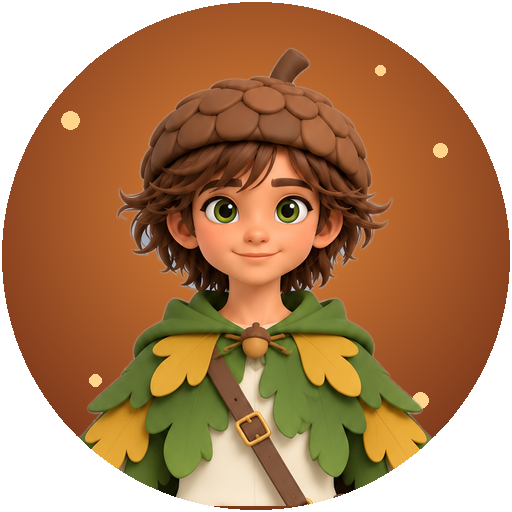
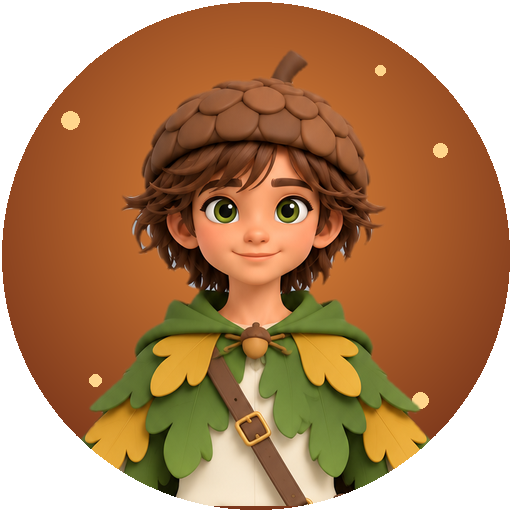
The 9 Thanksgiving Game Pass ids in Config.SKINS (checked on Roblox's API: names match, 99 Robux, for sale) and PASSES.md; pass pictures without the gray left in curly hair (Feast DJ / Cozy Cocoa Echo) and a trimmed outline. Places rebuilt

diff --git a/tools/make_pass_pictures.py b/tools/make_pass_pictures.py
@@ -35,7 +35,27 @@ def cut_background(img):
             continue
         seen[y, x] = True
         q.extend([(y + 1, x), (y - 1, x), (y, x + 1), (y, x - 1)])
-    alpha = Image.fromarray(np.where(seen, 0, 255).astype(np.uint8)).filter(ImageFilter.GaussianBlur(1.2))
+    # 2 Nov (Brent): gray left in the gaps of curly hair (Feast DJ and Cozy
+    # Cocoa Echo) - background pockets the fill can't reach. Any patch of
+    # background gray bigger than a few pixels goes too
+    pocket = near & ~seen
+    left = np.zeros((h, w), bool)
+    for sy, sx in zip(*np.nonzero(pocket)):
+        if left[sy, sx]:
+            continue
+        comp, q = [], deque([(sy, sx)])
+        left[sy, sx] = True
+        while q:
+            y, x = q.popleft()
+            comp.append((y, x))
+            for ny, nx in ((y + 1, x), (y - 1, x), (y, x + 1), (y, x - 1)):
+                if 0 <= ny < h and 0 <= nx < w and pocket[ny, nx] and not left[ny, nx]:
+                    left[ny, nx] = True
+                    q.append((ny, nx))
+        if len(comp) >= 40:
+            for y, x in comp:
+                seen[y, x] = True
+    alpha = Image.fromarray(np.where(seen, 0, 255).astype(np.uint8)).filter(ImageFilter.MinFilter(5)).filter(ImageFilter.GaussianBlur(1.2))  # 2px off the outline: no pale fringe
     out = img.convert("RGBA")
     out.putalpha(alpha)
     return out, ~seen

diff --git a/PASSES.md b/PASSES.md
@@ -49,6 +49,21 @@ off, same steps as above.
 
 Ids go in `Config.SKINS` as `pass = <id>` (Thanksgiving skins at the end).
 
+## Thanksgiving pass ids (all 9, checked on Roblox 2 Nov: 99 Robux, for sale)
+
+| Skin | Pass id |
+|---|---|
+| Pie Baker Patch | 2064623004 |
+| Chef Brainy | 2064790665 |
+| Gobble Shadow | 2064623010 |
+| Harvest Glow | 2064736794 |
+| Scarecrow Tinker | 2064586887 |
+| Gridiron Muscle | 2064732949 |
+| Feast DJ Echo | 2064403446 |
+| Cozy Cocoa Echo | 2064569161 |
+| Acorn Bramble | 2064942592 |
+
+
 ## Managed pricing: OFF (8 Oct)
 
 Creator Hub's **Managed pricing** lets Roblox test different prices on small
